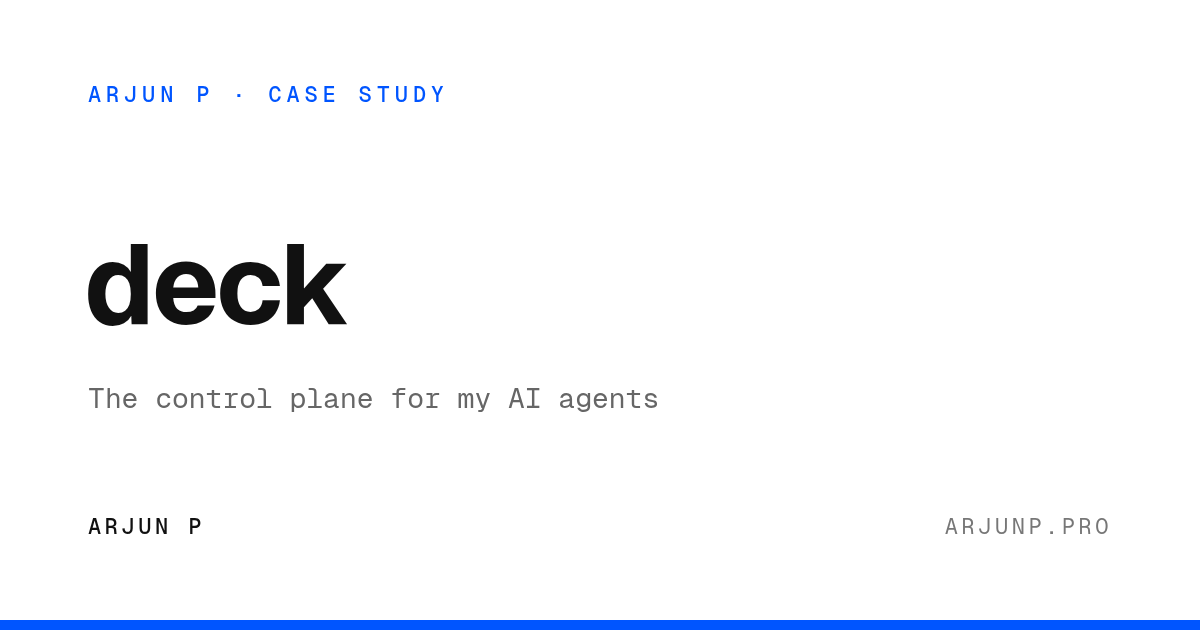
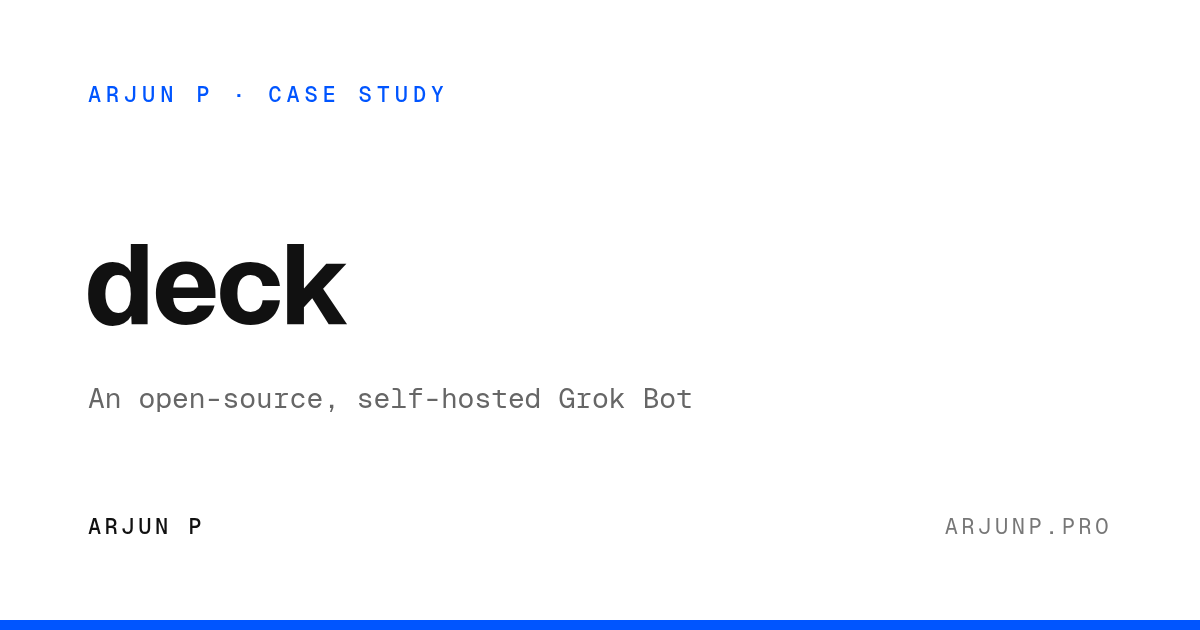
Present deck as an open-source, self-hosted Grok Bot

Changed region(s): [[0.185, 0.6032, 0.5858, 0.6635], [0.0617, 0.6032, 0.1542, 0.6635]]

diff --git a/projects/deck.html b/projects/deck.html
@@ -3,20 +3,20 @@
 <head>
 <meta charset="UTF-8">
 <meta name="viewport" content="width=device-width, initial-scale=1.0">
-<title>deck: A Control Plane for My AI Agents | Arjun P</title>
-<meta name="description" content="Deck is how I run many AI agents. I create one bot per job, such as LinkedIn or Instagram marketing, and each bot works in a computer of its own.">
+<title>deck: An Open-Source, Self-Hosted Grok Bot | Arjun P</title>
+<meta name="description" content="deck is an open-source, self-hosted alternative to Grok Bot. I chat with my own AI bots, each on a computer of its own, and I own the model, data and code.">
 <link rel="canonical" href="https://www.arjunp.pro/projects/deck.html">
 <meta property="og:type" content="website">
 <meta property="og:url" content="https://www.arjunp.pro/projects/deck.html">
-<meta property="og:title" content="deck: A Control Plane for My AI Agents | Arjun P">
-<meta property="og:description" content="Deck is how I run many AI agents. I create one bot per job, such as LinkedIn or Instagram marketing, and each bot works in a computer of its own.">
+<meta property="og:title" content="deck: An Open-Source, Self-Hosted Grok Bot | Arjun P">
+<meta property="og:description" content="deck is an open-source, self-hosted alternative to Grok Bot. I chat with my own AI bots, each on a computer of its own, and I own the model, data and code.">
 <meta property="og:image" content="https://www.arjunp.pro/assets/images/og/deck.webp">
 <meta property="og:image:width" content="1200">
 <meta property="og:image:height" content="630">
 <meta property="og:site_name" content="Arjun P">
 <meta name="twitter:card" content="summary_large_image">
-<meta name="twitter:title" content="deck: A Control Plane for My AI Agents | Arjun P">
-<meta name="twitter:description" content="Deck is how I run many AI agents. I create one bot per job, such as LinkedIn or Instagram marketing, and each bot works in a computer of its own.">
+<meta name="twitter:title" content="deck: An Open-Source, Self-Hosted Grok Bot | Arjun P">
+<meta name="twitter:description" content="deck is an open-source, self-hosted alternative to Grok Bot. I chat with my own AI bots, each on a computer of its own, and I own the model, data and code.">
 <meta name="twitter:image" content="https://www.arjunp.pro/assets/images/og/deck.webp">
 <meta name="twitter:creator" content="@03arjunkr">
 <link rel="icon" href="/favicon.svg" type="image/svg+xml">
@@ -156,7 +156,7 @@
   }
 </style>
 <script type="application/ld+json">
-{"@context": "https://schema.org", "@graph": [{"@type": "BreadcrumbList", "itemListElement": [{"@type": "ListItem", "position": 1, "name": "Home", "item": "https://www.arjunp.pro/"}, {"@type": "ListItem", "position": 2, "name": "Projects", "item": "https://www.arjunp.pro/projects/"}, {"@type": "ListItem", "position": 3, "name": "deck", "item": "https://www.arjunp.pro/projects/deck.html"}]}, {"@type": "SoftwareSourceCode", "name": "deck", "headline": "deck: A Control Plane for My AI Agents | Arjun P", "description": "Deck is how I run many AI agents. I create one bot per job, such as LinkedIn or Instagram marketing, and each bot works in a computer of its own.", "url": "https://www.arjunp.pro/projects/deck.html", "image": "https://www.arjunp.pro/assets/images/og/deck.webp", "programmingLanguage": "Rust", "codeRepository": "https://github.com/mrwick1/deck", "author": {"@type": "Person", "name": "Arjun P", "url": "https://www.arjunp.pro/"}}]}
+{"@context": "https://schema.org", "@graph": [{"@type": "BreadcrumbList", "itemListElement": [{"@type": "ListItem", "position": 1, "name": "Home", "item": "https://www.arjunp.pro/"}, {"@type": "ListItem", "position": 2, "name": "Projects", "item": "https://www.arjunp.pro/projects/"}, {"@type": "ListItem", "position": 3, "name": "deck", "item": "https://www.arjunp.pro/projects/deck.html"}]}, {"@type": "SoftwareSourceCode", "name": "deck", "headline": "deck: An Open-Source, Self-Hosted Grok Bot | Arjun P", "description": "deck is an open-source, self-hosted alternative to Grok Bot. I chat with my own AI bots, each on a computer of its own, and I own the model, data and code.", "url": "https://www.arjunp.pro/projects/deck.html", "image": "https://www.arjunp.pro/assets/images/og/deck.webp", "programmingLanguage": "Rust", "codeRepository": "https://github.com/mrwick1/deck", "author": {"@type": "Person", "name": "Arjun P", "url": "https://www.arjunp.pro/"}}]}
 </script>
 <link rel="stylesheet" href="../assets/letter.css?v=review-polish-1">
 </head>
@@ -168,8 +168,8 @@
     <div class="case-hero-inner fade-in">
       <div class="breadcrumb"><a href="../index.html">Home</a><span class="breadcrumb-sep">/</span><a href="./">Projects</a><span class="breadcrumb-sep">/</span><span>deck</span></div>
       <h1 class="case-title">deck</h1>
-      <p class="case-subtitle">The control plane for my AI agents: one place to create, run and supervise them.</p>
-      <div class="case-meta"><div class="case-meta-item"><span class="case-meta-label">Role</span><span class="case-meta-value">Solo: design &amp; build</span></div><div class="case-meta-item"><span class="case-meta-label">Type</span><span class="case-meta-value">AI agent control plane, self-hosted</span></div><div class="case-meta-item"><span class="case-meta-label">Stack</span><span class="case-meta-value">Rust · Axum · SQLite · React · QEMU/KVM</span></div><div class="case-meta-item"><span class="case-meta-label">Started</span><span class="case-meta-value">November 2026</span></div></div>
+      <p class="case-subtitle">An open-source, self-hosted Grok Bot: my own AI bots, each with a computer of its own.</p>
+      <div class="case-meta"><div class="case-meta-item"><span class="case-meta-label">Role</span><span class="case-meta-value">Solo: design &amp; build</span></div><div class="case-meta-item"><span class="case-meta-label">Type</span><span class="case-meta-value">Self-hosted AI bots, open source</span></div><div class="case-meta-item"><span class="case-meta-label">Stack</span><span class="case-meta-value">Rust · Axum · SQLite · React · QEMU/KVM</span></div><div class="case-meta-item"><span class="case-meta-label">Started</span><span class="case-meta-value">November 2026</span></div></div>
       <div class="case-buttons"><a href="https://github.com/mrwick1/deck" class="case-btn case-btn--primary" target="_blank" rel="noopener">Source on GitHub ↗</a><a href="#architecture" class="case-btn">Architecture</a></div>
     </div>
   </section>
@@ -177,26 +177,26 @@
   <section class="case-section">
     <div class="case-section-inner">
       <h2 class="case-section-heading"><span class="case-section-number">I</span>What it is</h2>
-      <p class="case-text fade-in">I want many AI agents working for me at once, each on one job: LinkedIn marketing, Instagram marketing, email, job hunting. Deck is how I interact with all of them. It is a control plane that I host myself, not a single chatbot.</p>
-      <p class="case-text fade-in">I create a bot by describing its job in a chat. Deck prepares the setup for my review: instructions, accounts, permissions, approval rules, schedules, the model and a spending budget. Each bot then gets its own computer, accounts, files and memory, so one bot never sees another bot's logins.</p>
-      <p class="case-text fade-in">When I open Deck, the home screen shows what every bot is doing. One inbox collects approvals, sign-in requests, failures and results from all bots. Opening a bot shows its chat, and its screen when I want to watch.</p>
+      <p class="case-text fade-in">Hosted bots such as Grok Bot feel smooth, but someone else owns the model, the data and the code. deck gives me the same kind of bot on my own server. It is open source under MIT and Apache 2.0. I am its first user, and anyone can host their own copy.</p>
+      <p class="case-text fade-in">I talk to deck in a web app, on my laptop or my phone. I ask for work on the web: read a page, fill a form, log in, collect data or check something every day. I can watch the bot work, or leave and come back to the result. Text, files and screenshots arrive in the chat.</p>
+      <p class="case-text fade-in">I run several bots, one for each kind of work: email, job hunting, and later marketing on LinkedIn or Instagram. Each bot has its own accounts, files, memory, instructions and permissions, so one bot never sees another bot's logins.</p>
     </div>
   </section>
 
   <section class="case-section" id="architecture">
     <div class="case-section-inner">
       <h2 class="case-section-heading"><span class="case-section-number">II</span>How it fits together</h2>
-      <p class="case-text fade-in">One Rust service runs the agent loop for every bot, outside the bots' computers. Any OpenAI-compatible model endpoint can drive it. Each bot's computer is a virtual machine that sleeps when idle and wakes when work arrives.</p>
-      <div class="arch fade-in" role="img" aria-label="Deck control plane: the owner talks to Deck, and Deck runs many bots, each with its own computer">
-        <div class="arch-box"><div class="arch-box-title">Me, in the Deck web app</div><div class="arch-box-sub">laptop or phone · overview of every bot · one inbox</div></div>
+      <p class="case-text fade-in">One Rust service runs the agent loop for every bot, outside the bots' computers. Any OpenAI-compatible model endpoint can drive it. Each bot's computer is a virtual machine with a full desktop. It sleeps when idle and wakes when work arrives.</p>
+      <div class="arch fade-in" role="img" aria-label="deck: the owner chats with deck in a web app, deck runs several bots, and each bot works in its own computer">
+        <div class="arch-box"><div class="arch-box-title">Me, in the deck web app</div><div class="arch-box-sub">laptop or phone · a chat with each bot · one inbox</div></div>
         <div class="arch-arrow"><span class="arch-arrow-label">HTTPS + server-sent events</span><svg width="16" height="22" viewBox="0 0 16 22" fill="none" stroke="currentColor" stroke-width="1.5"><line x1="8" y1="0" x2="8" y2="18"/><path d="M3 13l5 5 5-5"/></svg></div>
-        <div class="arch-box arch-box--accent"><div class="arch-box-title">Deck control plane: one Rust service</div><div class="arch-box-sub">bot registry · task queues · permissions and approvals · budgets · the agent loop for each bot · SQLite</div></div>
+        <div class="arch-box arch-box--accent"><div class="arch-box-title">deck server: one Rust service</div><div class="arch-box-sub">the agent loop for each bot · task queues · permissions and approvals · budgets · SQLite · any OpenAI-compatible model</div></div>
         <div class="arch-arrow"><span class="arch-arrow-label">one computer per bot</span><svg width="16" height="22" viewBox="0 0 16 22" fill="none" stroke="currentColor" stroke-width="1.5"><line x1="8" y1="0" x2="8" y2="18"/><path d="M3 13l5 5 5-5"/></svg></div>
         <div style="display: grid; grid-template-columns: repeat(2, minmax(0, 1fr)); gap: 12px;">
-          <div class="arch-box"><div class="arch-box-title">LinkedIn bot</div><div class="arch-box-sub">planned · own VM, accounts and memory</div></div>
-          <div class="arch-box"><div class="arch-box-title">Instagram bot</div><div class="arch-box-sub">planned · own VM, accounts and memory</div></div>
-          <div class="arch-box"><div class="arch-box-title">Email bot</div><div class="arch-box-sub">planned · own VM, accounts and memory</div></div>
-          <div class="arch-box"><div class="arch-box-title">Any new job</div><div class="arch-box-sub">described in a chat, approved by me</div></div>
+          <div class="arch-box"><div class="arch-box-title">Email bot</div><div class="arch-box-sub">own computer, accounts and memory</div></div>
+          <div class="arch-box"><div class="arch-box-title">Job-hunting bot</div><div class="arch-box-sub">own computer, accounts and memory</div></div>
+          <div class="arch-box"><div class="arch-box-title">Marketing bot</div><div class="arch-box-sub">planned · LinkedIn or Instagram</div></div>
+          <div class="arch-box"><div class="arch-box-title">Any new job</div><div class="arch-box-sub">a new bot, set up by me</div></div>
         </div>
         <div class="arch-arrow"><span class="arch-arrow-label">inside each computer</span><svg width="16" height="22" viewBox="0 0 16 22" fill="none" stroke="currentColor" stroke-width="1.5"><line x1="8" y1="0" x2="8" y2="18"/><path d="M3 13l5 5 5-5"/></svg></div>
         <div class="arch-box arch-box--accent"><div class="arch-box-title">QEMU/KVM virtual machine with an Arch Linux desktop</div><div class="arch-box-sub">guest executor · bare browser · shell · files · saved when idle, restored when work arrives</div></div>
@@ -206,9 +206,9 @@
 
   <section class="case-section">
     <div class="case-section-inner">
-      <h2 class="case-section-heading"><span class="case-section-number">III</span>How I stay in control</h2>
-      <div class="features-grid" style="margin-bottom: var(--sp-6);"><div class="feature-card fade-in"><div class="feature-card-title">Permissions for each bot</div><div class="feature-card-desc">Permissions describe actions, such as reading messages, posting or sending. A bot can ask for a missing permission, and I approve one action or grant it with limits.</div></div><div class="feature-card fade-in"><div class="feature-card-title">Approvals in one inbox</div><div class="feature-card-desc">A post, a payment or a sent message can wait for my approval. Requests stay in the inbox until I resolve them.</div></div><div class="feature-card fade-in"><div class="feature-card-title">Queues and controls</div><div class="feature-card-desc">Each bot keeps a task queue: working, waiting for me, queued and completed. I can stop a task, steer it or change its priority.</div></div><div class="feature-card fade-in"><div class="feature-card-title">Pause and sleep</div><div class="feature-card-desc">Pause stops new work for a bot. Sleep saves its computer to disk and frees CPU and memory. A budget pauses a bot until I approve more spending.</div></div></div>
-      <p class="case-text fade-in">Each bot reads pages as text first, in the <a href="bare.html">bare</a> browser, and takes a screenshot only when it must. It reports what it did and what failed, and never claims a result that it did not check.</p>
+      <h2 class="case-section-heading"><span class="case-section-number">III</span>What it is built to do</h2>
+      <div class="features-grid" style="margin-bottom: var(--sp-6);"><div class="feature-card fade-in"><div class="feature-card-title">A smooth chat</div><div class="feature-card-desc">The goal is a reply that starts in about 1 second, with progress on screen while the bot works. No dead waits and no silent failures.</div></div><div class="feature-card fade-in"><div class="feature-card-title">A computer for each bot</div><div class="feature-card-desc">Each bot keeps a persistent desktop. deck saves the computer to disk when the bot is idle and restores it when the next task arrives.</div></div><div class="feature-card fade-in"><div class="feature-card-title">Owner control</div><div class="feature-card-desc">Each bot has permissions, approval rules and a spending budget. A post, a payment or a sent message can wait for my approval. One inbox collects approvals, failures and results from all bots.</div></div><div class="feature-card fade-in"><div class="feature-card-title">Built on bare</div><div class="feature-card-desc">The only browser is <a href="bare.html">bare</a>, with no fallback. A bot reads pages as text first. When a site fails in bare, deck files a bare issue, so each failure makes the browser better.</div></div></div>
+      <p class="case-text fade-in">A bot reports what it did and what failed. It never claims a result that it did not check.</p>
     </div>
   </section>
 
@@ -216,8 +216,8 @@
     <div class="case-section-inner">
       <h2 class="case-section-heading"><span class="case-section-number">IV</span>Where it stands</h2>
       <p class="case-text fade-in">On 12 November 2026, the one-bot runtime passed its three stages: a full desktop with <code>bare</code> and saved state, a guest executor with durable commands and cancellation, and server integration with a queue, controls, idle save and wake. A strict run in a real virtual machine completed browser, shell and file work, saved the idle computer and restored it for the next task.</p>
-      <p class="case-text fade-in">In one measured run, a working bot used about 531 MiB of VM memory, and the shared server used about 21 MiB. I keep one bot lean first, so that many bots stay cheap to run. These are single observations, not capacity numbers.</p>
-      <p class="case-text fade-in"><strong>Still open:</strong> creating bots through a chat, real account integrations such as LinkedIn and Instagram, automatic spending accounting, memory, and load tests with many bots. The design covers them, but they are not shipped.</p>
+      <p class="case-text fade-in">In one measured run, a working bot used about 531 MiB of VM memory, and the shared server used about 21 MiB. A restored task completed in about 3 seconds. I keep one bot lean first, so that many bots stay cheap to run. These are single observations on a small synthetic workload, not capacity numbers.</p>
+      <p class="case-text fade-in"><strong>Still open:</strong> creating bots through a chat, real account integrations such as email, LinkedIn and Instagram, automatic spending accounting, memory, and load tests with many bots. The design covers them, but they are not shipped.</p>
     </div>
   </section>
 

diff --git a/index.html b/index.html
@@ -97,7 +97,7 @@
 <div class="letter">
 <header class="letter-head"><a class="monogram" href="#hero" aria-label="Arjun, home">A</a><div class="dateline">From India,<time id="letterDate">November 2026</time><span class="local-time" id="localTime"></span></div></header>
 <main id="main">
-<section class="hero" id="hero"><div class="hero-copy"><h1>Arjun P</h1><p class="role">AI Engineer at <span>Qilin Labs</span></p><p class="intro">I build AI agents and the tools they run on: a browser written from scratch in Rust, a control plane for my AI agents, and a code reviewer measured against CodeRabbit. At work, I take AI products from the first conversation through delivery.</p></div></section>
+<section class="hero" id="hero"><div class="hero-copy"><h1>Arjun P</h1><p class="role">AI Engineer at <span>Qilin Labs</span></p><p class="intro">I build AI agents and the tools they run on: a browser written from scratch in Rust, an open-source, self-hosted Grok Bot, and a code reviewer measured against CodeRabbit. At work, I take AI products from the first conversation through delivery.</p></div></section>
 <section class="section" id="contact"><h2 class="section-heading"><span class="section-heading-number">I</span>Contact</h2><nav class="contact-nav" aria-label="Contact and socials"><a href="mailto:03arjunkr@gmail.com" aria-label="Email" title="Email"><svg viewBox="0 0 24 24" fill="none" stroke="currentColor" stroke-width="1.5" stroke-linecap="round" stroke-linejoin="round" aria-hidden="true"><rect x="3" y="5" width="18" height="14" rx="2"/><path d="m3 6 9 7 9-7"/></svg></a><a href="https://github.com/mrwick1" aria-label="GitHub" title="GitHub" target="_blank" rel="noopener noreferrer"><svg viewBox="0 0 24 24" fill="none" stroke="currentColor" stroke-width="1.5" stroke-linecap="round" stroke-linejoin="round" aria-hidden="true"><path d="M9 19c-4 1-4-2-6-2m12 5v-3.5a3 3 0 0 0-.8-2.3c2.7-.3 5.6-1.3 5.6-6A4.7 4.7 0 0 0 18.5 7a4.3 4.3 0 0 0-.1-3s-1-.3-3.4 1.3a11.6 11.6 0 0 0-6 0C6.6 3.7 5.6 4 5.6 4a4.3 4.3 0 0 0-.1 3 4.7 4.7 0 0 0-1.3 3.3c0 4.7 2.9 5.7 5.6 6a3 3 0 0 0-.8 2.3V22"/></svg></a><a href="https://twitter.com/03arjunkr" aria-label="X" title="X" target="_blank" rel="noopener noreferrer"><svg viewBox="0 0 24 24" fill="none" stroke="currentColor" stroke-width="1.5" stroke-linecap="round" stroke-linejoin="round" aria-hidden="true"><path d="m4 3 16 18h-4L1 3h4m15 0L4 21"/></svg></a><a href="https://linkedin.com/in/arjunp-software-engineer" aria-label="LinkedIn" title="LinkedIn" target="_blank" rel="noopener noreferrer"><svg viewBox="0 0 24 24" fill="none" stroke="currentColor" stroke-width="1.5" stroke-linecap="round" stroke-linejoin="round" aria-hidden="true"><rect x="3" y="3" width="18" height="18" rx="2"/><path d="M7 10v7m0-10v.1M11 17v-7m0 3a3 3 0 0 1 6 0v4"/></svg></a><a class="resume-link" href="/assets/arjun-p-resume.pdf?v=19" target="_blank" rel="noopener noreferrer">Résumé ↗</a></nav><p class="work-note">Open to AI engineering roles and selected client projects. <a href="mailto:03arjunkr@gmail.com">Let’s talk →</a></p></section><section class="section" id="experience">
 
     <div class="section-inner">
@@ -131,7 +131,7 @@
 
     <div class="section-inner">
       <h2 class="section-heading"><span class="section-heading-number">III</span>Projects</h2>
-      <ol class="project-list"><li class="project-row"><a class="entry" href="./projects/bare.html"><span class="project-number" aria-hidden="true">01</span><span class="entry-title">bare</span><span class="entry-sub">A browser written from scratch in Rust</span><span class="leader" aria-hidden="true"></span><span class="entry-meta">↗</span></a></li><li class="project-row"><a class="entry" href="./projects/deck.html"><span class="project-number" aria-hidden="true">02</span><span class="entry-title">deck</span><span class="entry-sub">A control plane for my AI agents</span><span class="leader" aria-hidden="true"></span><span class="entry-meta">↗</span></a></li><li class="project-row"><a class="entry" href="./projects/reviewer.html"><span class="project-number" aria-hidden="true">03</span><span class="entry-title">reviewer</span><span class="entry-sub">AI code review, measured</span><span class="leader" aria-hidden="true"></span><span class="entry-meta">↗</span></a></li><li class="project-row"><a class="entry" href="./projects/figma-connect.html"><span class="project-number" aria-hidden="true">04</span><span class="entry-title">figma-connect</span><span class="entry-sub">Design checks for generated UI</span><span class="leader" aria-hidden="true"></span><span class="entry-meta">↗</span></a></li></ol><a href="./projects/" class="all-projects">All projects →</a>
+      <ol class="project-list"><li class="project-row"><a class="entry" href="./projects/bare.html"><span class="project-number" aria-hidden="true">01</span><span class="entry-title">bare</span><span class="entry-sub">A browser written from scratch in Rust</span><span class="leader" aria-hidden="true"></span><span class="entry-meta">↗</span></a></li><li class="project-row"><a class="entry" href="./projects/deck.html"><span class="project-number" aria-hidden="true">02</span><span class="entry-title">deck</span><span class="entry-sub">An open-source, self-hosted Grok Bot</span><span class="leader" aria-hidden="true"></span><span class="entry-meta">↗</span></a></li><li class="project-row"><a class="entry" href="./projects/reviewer.html"><span class="project-number" aria-hidden="true">03</span><span class="entry-title">reviewer</span><span class="entry-sub">AI code review, measured</span><span class="leader" aria-hidden="true"></span><span class="entry-meta">↗</span></a></li><li class="project-row"><a class="entry" href="./projects/figma-connect.html"><span class="project-number" aria-hidden="true">04</span><span class="entry-title">figma-connect</span><span class="entry-sub">Design checks for generated UI</span><span class="leader" aria-hidden="true"></span><span class="entry-meta">↗</span></a></li></ol><a href="./projects/" class="all-projects">All projects →</a>
     </div>
   </section><section class="section" id="writing">
 

diff --git a/projects/index.html b/projects/index.html
@@ -4,7 +4,7 @@
 <meta charset="UTF-8">
 <meta name="viewport" content="width=device-width, initial-scale=1.0">
 <title>Projects: AI Agents and Developer Tools | Arjun P</title>
-<meta name="description" content="Selected projects by Arjun P: a browser written from scratch in Rust, a self-hosted AI agent, an AI code reviewer, agent tooling and AI client work.">
+<meta name="description" content="Selected projects by Arjun P: a browser written from scratch in Rust, self-hosted AI bots, an AI code reviewer, agent tooling and AI client work.">
 <meta name="keywords" content="AI Engineer, AI Agents, Developer Tools, LLM Evaluation, MCP, Rust, TypeScript, Python">
 <meta name="author" content="Arjun P">
 <meta name="creator" content="Arjun P">
@@ -16,7 +16,7 @@
 <meta property="og:type" content="website">
 <meta property="og:url" content="https://www.arjunp.pro/projects/">
 <meta property="og:title" content="Projects: AI Agents and Developer Tools | Arjun P">
-<meta property="og:description" content="Selected projects by Arjun P: a browser written from scratch in Rust, a self-hosted AI agent, an AI code reviewer, agent tooling and AI client work.">
+<meta property="og:description" content="Selected projects by Arjun P: a browser written from scratch in Rust, self-hosted AI bots, an AI code reviewer, agent tooling and AI client work.">
 <meta property="og:image" content="https://www.arjunp.pro/assets/images/og-image.webp">
 <meta property="og:image:width" content="1200">
 <meta property="og:image:height" content="630">
@@ -27,7 +27,7 @@
 <!-- Twitter -->
 <meta name="twitter:card" content="summary_large_image">
 <meta name="twitter:title" content="Projects: AI Agents and Developer Tools | Arjun P">
-<meta name="twitter:description" content="Selected projects by Arjun P: a browser written from scratch in Rust, a self-hosted AI agent, an AI code reviewer, agent tooling and AI client work.">
+<meta name="twitter:description" content="Selected projects by Arjun P: a browser written from scratch in Rust, self-hosted AI bots, an AI code reviewer, agent tooling and AI client work.">
 <meta name="twitter:creator" content="@03arjunkr">
 <meta name="twitter:image" content="https://www.arjunp.pro/assets/images/og-image.webp">
 
